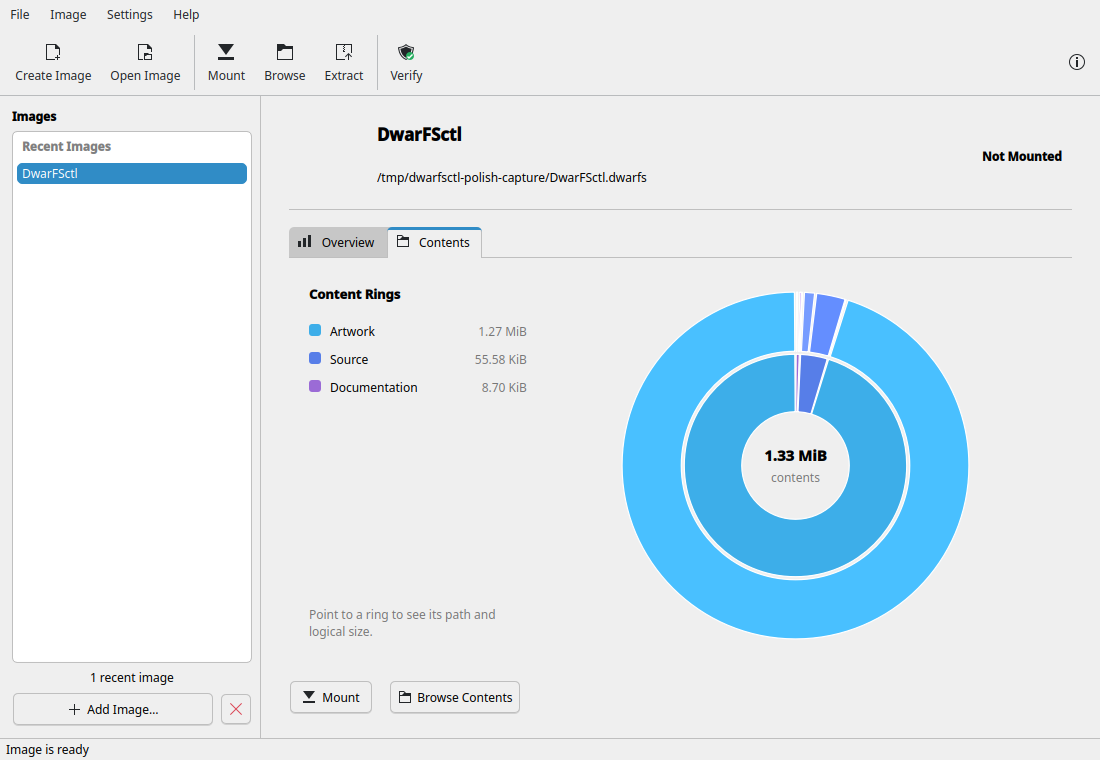
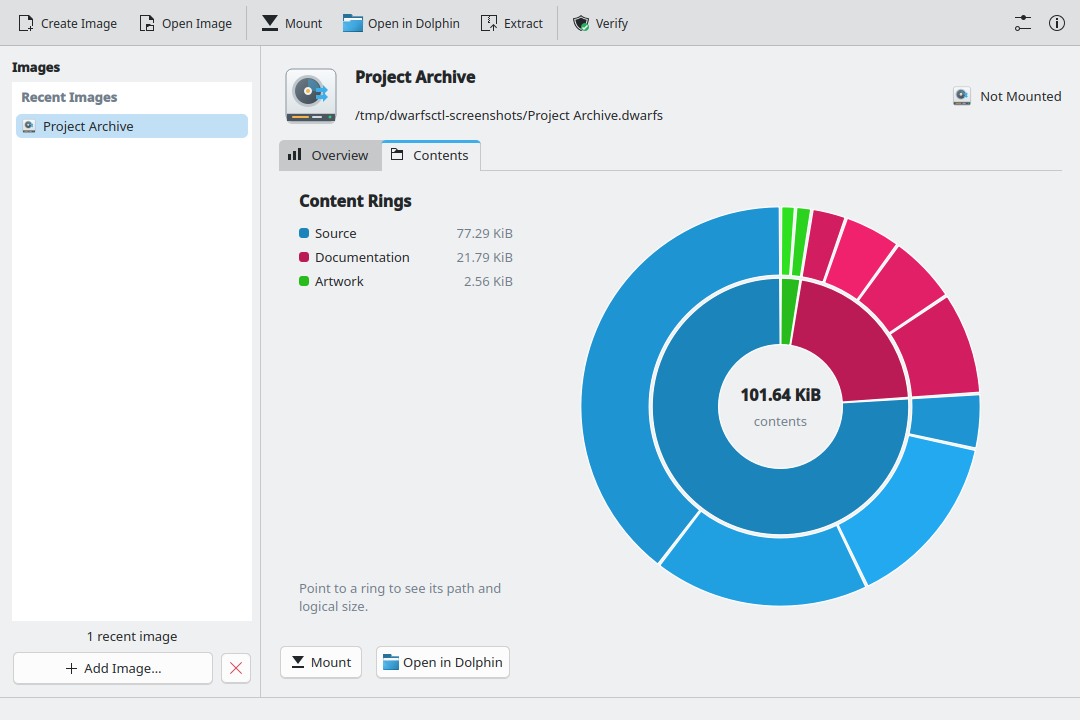
Prepare 0.13.1 release and refresh README screenshots (#5)
Finalize release metadata, correct the RPM history, and refresh both Utility screenshots.

diff --git a/README.md b/README.md
@@ -41,12 +41,12 @@ to see its path and contents.
 
 ![DwarFS Utility showing the Content Rings view](docs/screenshots/utility-contents.png)
 
-Screenshots show a sample image containing project documentation, artwork and
-source files, rendered with KDE's Breeze style.
+Screenshots show DwarFSctl 0.13.1 with a sample image containing project
+documentation, artwork and source files, rendered with KDE's Breeze style.
 
 ## Install
 
-Version 0.13.0 is available. Downloads are verified using a GPG-signed checksum
+Version 0.13.1 is available. Downloads are verified using a GPG-signed checksum
 manifest.
 
 Release packages target Fedora 45 on x86-64 and ARM64, plus Debian 13,

diff --git a/CHANGELOG.md b/CHANGELOG.md
@@ -2,7 +2,7 @@
 
 This file records release changes.
 
-## 0.13.1 — Unreleased
+## 0.13.1 — 2026-11-15
 
 - Aligned Utility and tray styling, improved theme contrast, and kept image
   details readable in smaller windows.
